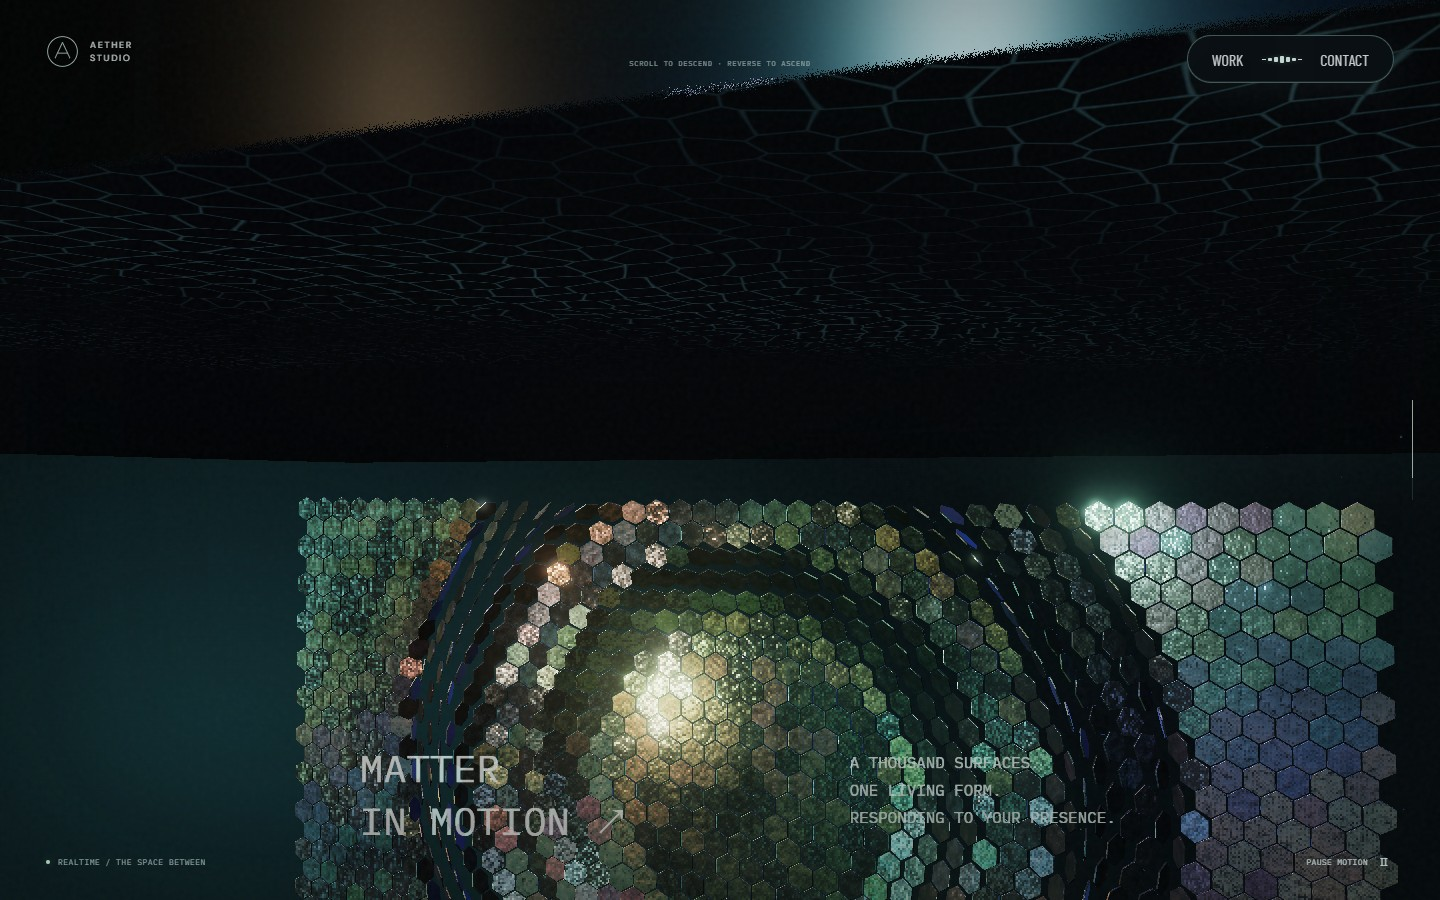
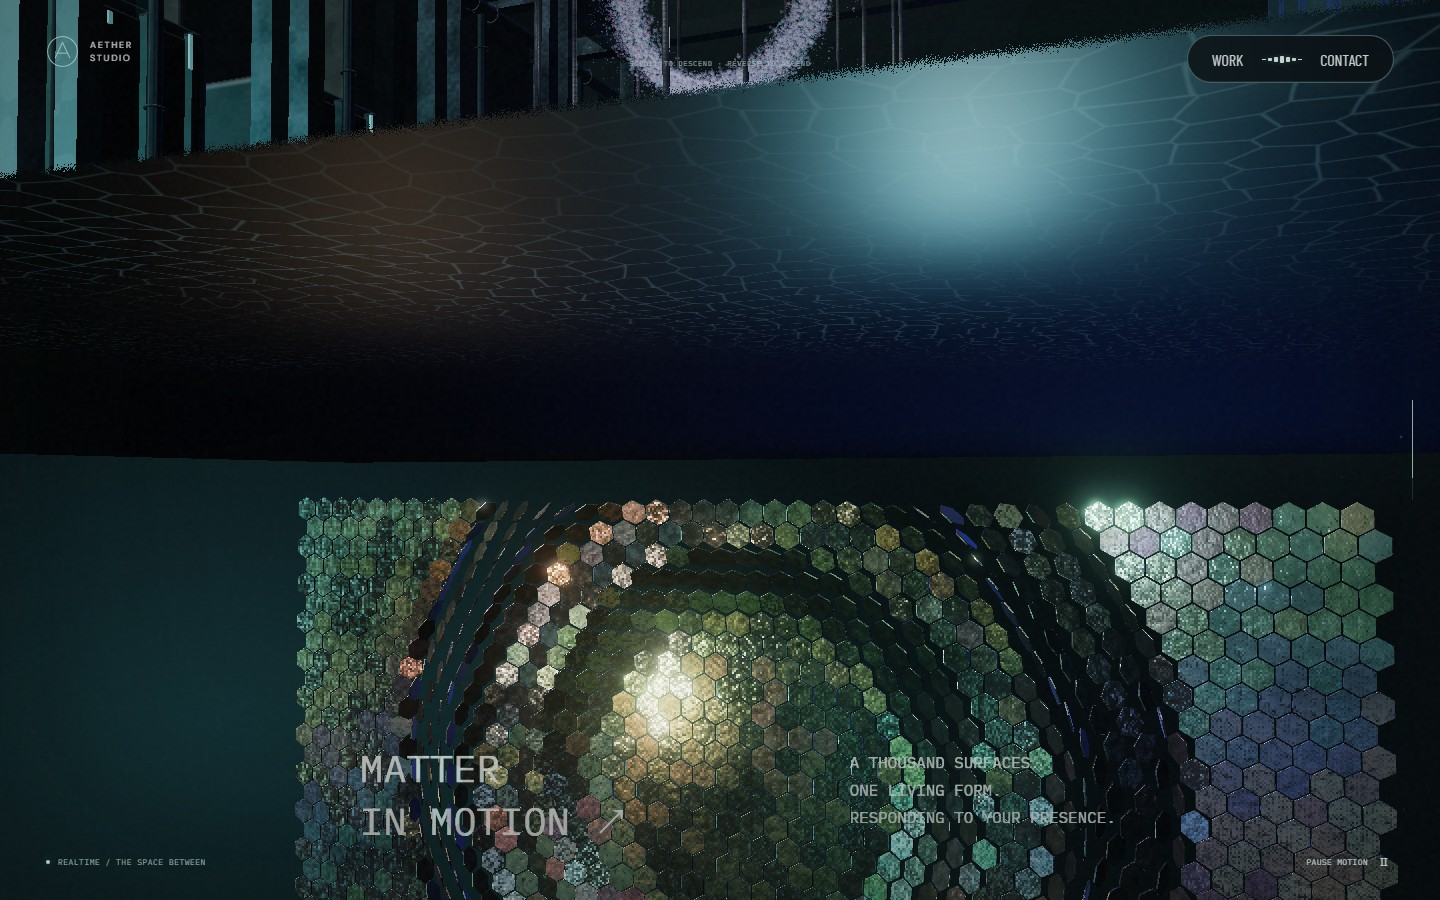
fix: 천장 재질 복원 및 상부 바닥 뒷면 가림 제거

Changed region(s): [[0.0938, 0.0, 0.9688, 0.4978], [0.0, 0.0, 0.0625, 0.1867]]

diff --git a/src/SceneWorlds.ts b/src/SceneWorlds.ts
@@ -228,7 +228,9 @@ export function createSceneWorlds(
     depthWrite: false,
   }))
   const floorMaterial = mat(architecture.clone())
-  floorMaterial.side = THREE.DoubleSide
+  // The lower room owns the underside. Drawing this upper floor's back face
+  // puts a blurred reflection over the outgoing reactor above the shared edge.
+  floorMaterial.side = THREE.FrontSide
   floorMaterial.forceSinglePass = true
   floorMaterial.depthWrite = true
   const platformWidth = 22
@@ -279,10 +281,8 @@ export function createSceneWorlds(
   ceiling.visible = false
   // The scale room owns its ceiling and light, on the incoming side of
   // the same screen edge that clips every upper-room object.
-  // Keep the ceiling and its depth boundary, without the broad environment
-  // reflection that appeared abruptly when the eye crossed the floor.
-  const undersideMaterial = mat(new THREE.MeshBasicMaterial({
-    color: 0x090d12,
+  const undersideMaterial = mat(new THREE.MeshStandardMaterial({
+    color: 0x090d12, metalness: .43, roughness: .57, envMapIntensity: .42,
     depthWrite: true,
   }))
   const underside = mesh(lowerSpace, geo(new THREE.PlaneGeometry(64, 64)), undersideMaterial, 0, -3.755, platformZ)
@@ -370,8 +370,9 @@ export function createSceneWorlds(
   floorMaterial.bumpMap = ruins.relief
   floorMaterial.bumpScale = .018
   floorMaterial.roughness = .42
-  ceilingMaterial.bumpMap = ruins.relief
+  ceilingMaterial.bumpMap = undersideMaterial.bumpMap = ruins.relief
   ceilingMaterial.bumpScale = .014
+  undersideMaterial.bumpScale = .009
   machineMetal.bumpMap = ruins.relief
   machineMetal.bumpScale = .008
   const wallGeometry = geo(new THREE.BoxGeometry(1, 1, 1))
